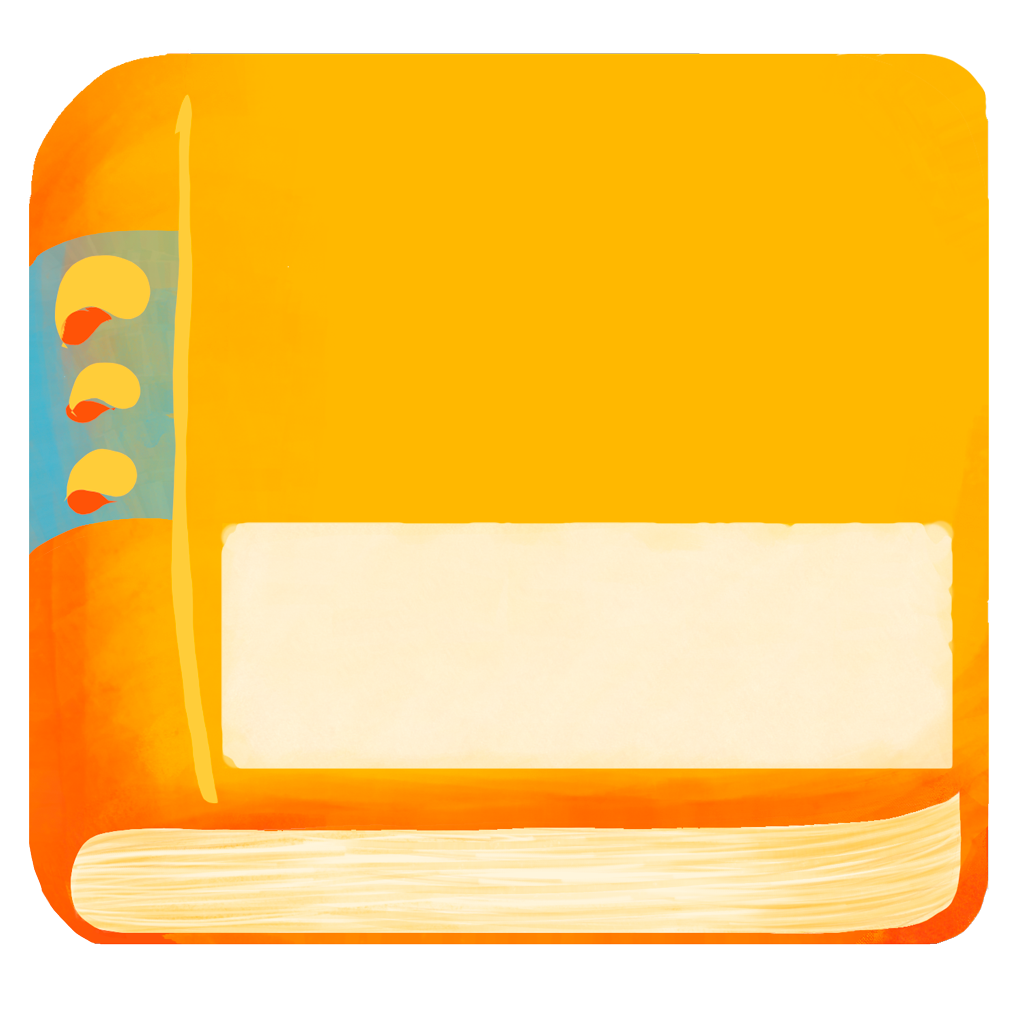
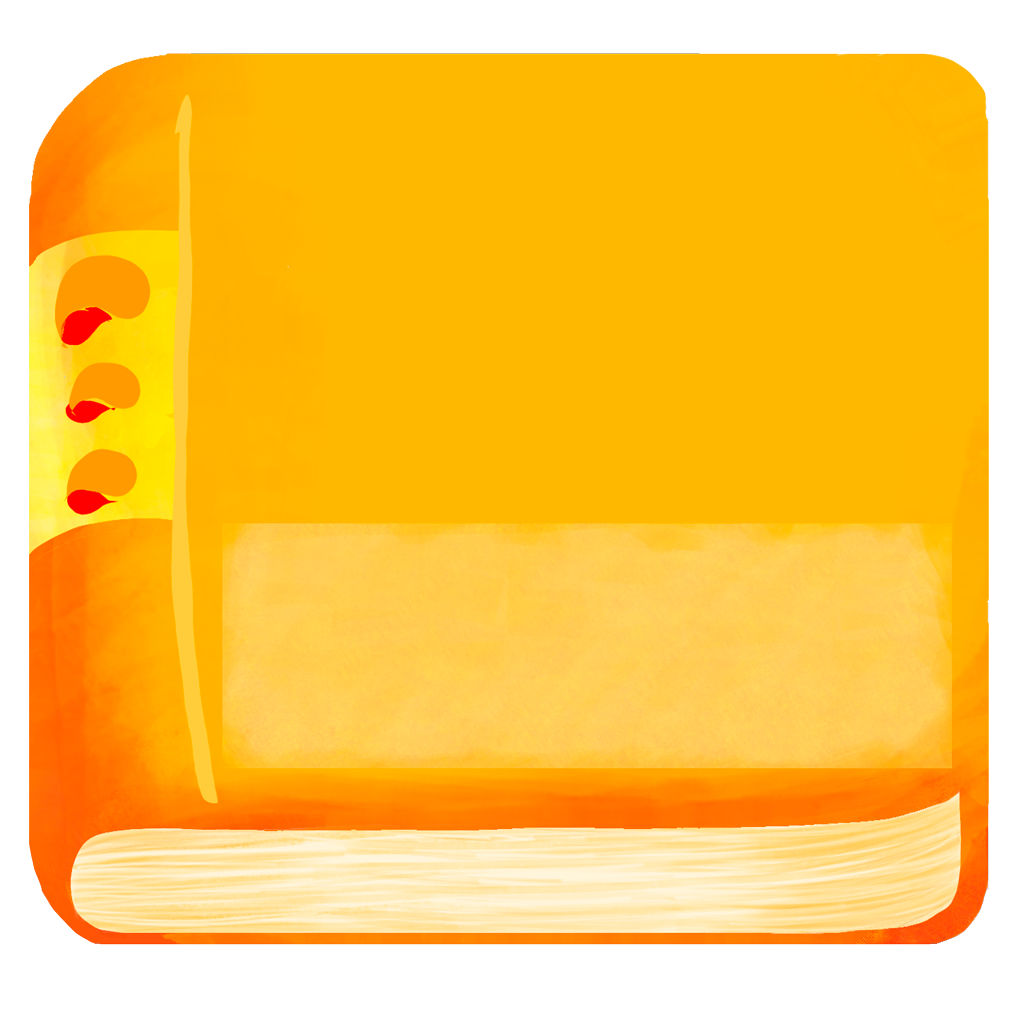
Fix - [Content Selection] Change the background color to match the light blue from the homepage #381 Fix - [Language Selection] if you get back to the language selection and you switch language the book labels are wrong #371 Fix - [Home] Settings menu is not present after closing the Language/Conten

Changed region(s): [[0.2188, 0.5, 0.9375, 0.75], [0.0312, 0.2188, 0.1875, 0.5312]]

diff --git a/Assets/_core/_scripts/EditionSelection/EditionSelectionManager.cs b/Assets/_core/_scripts/EditionSelection/EditionSelectionManager.cs
@@ -66,6 +66,7 @@ namespace Antura.Scenes
             selectLearningContentPanel.Close();
             selectedNativeButton.gameObject.SetActive(false);
             GlobalUI.ShowBackButton(false);
+            GlobalUI.ShowPauseMenu(true, PauseMenuType.StartScreen);
         }
 
         private IEnumerator NativeLanguageSelectionCO(bool firstTime)
@@ -130,6 +131,7 @@ namespace Antura.Scenes
                     yield return null;
 
                 hasAnswered = false;
+                AppManager.I.AppSettingsManager.SetNativeLanguage(selectNativeLanguagePanel.SelectedCode);
                 GlobalUI.ShowPrompt(LocalizationDataId.UI_PromptNotifications,
                 () =>
                 {

diff --git a/Assets/_core/_scripts/EditionSelection/SelectLearningContentButton.cs b/Assets/_core/_scripts/EditionSelection/SelectLearningContentButton.cs
@@ -28,10 +28,7 @@ namespace Antura.UI
 
             iconImage.sprite = editionConfig.TransitionLogo;
 
-            var code = editionConfig.LearningLanguage;
-            if (code == LanguageCode.arabic_legacy) code = LanguageCode.arabic;
-
-            nameText.SetOverridenLanguageText(AppManager.I.AppSettings.NativeLanguage, LocKey);
+            nameText.SetOverridenLanguageText(parentPanel.SelectedNativeCode, LocKey);
         }
 
         public LocalizationDataId LocKey
